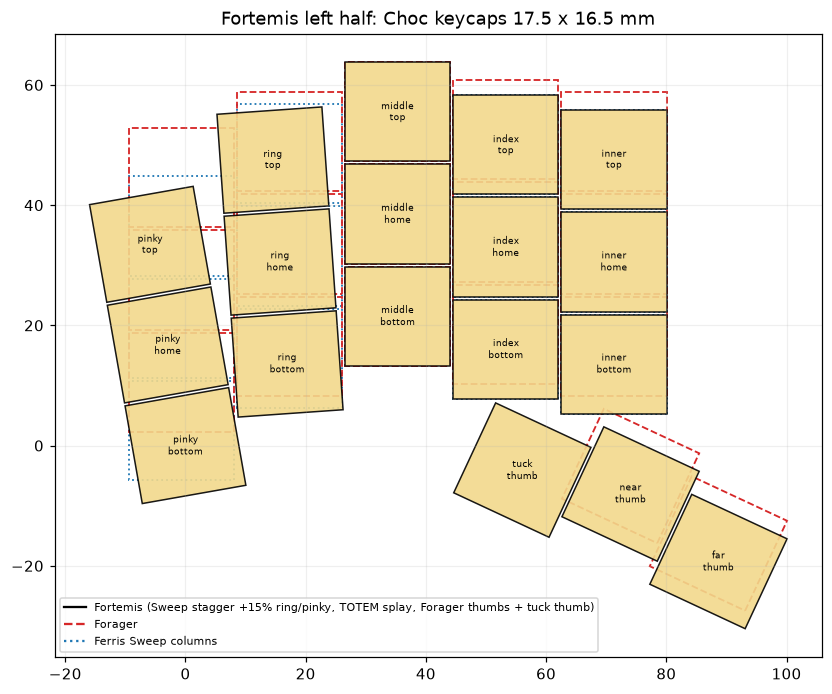
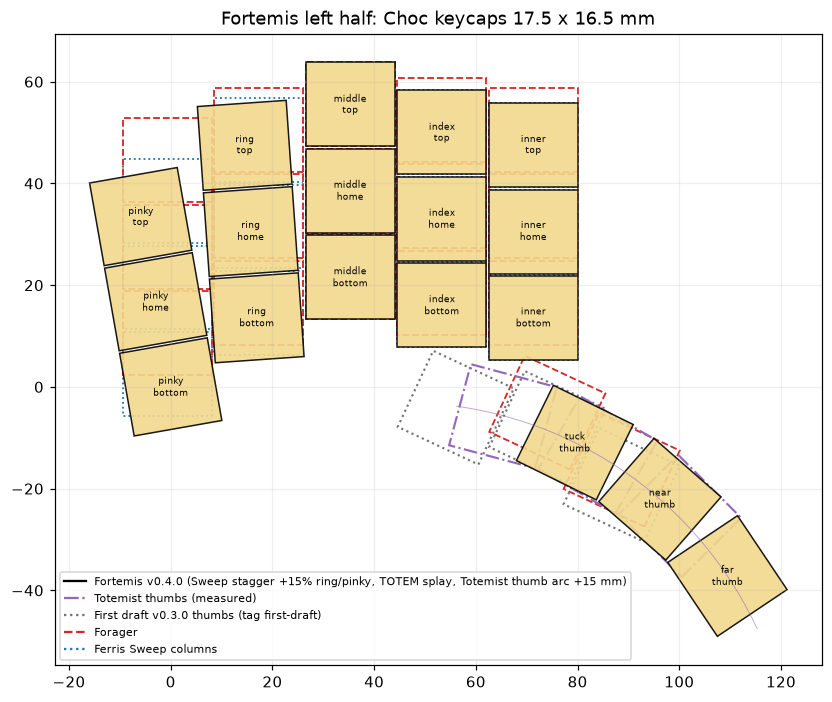
Move the thumb arc 15 mm past the Totemist's

diff --git a/ergogen/tools/preview_layout.py b/ergogen/tools/preview_layout.py
@@ -1,9 +1,12 @@
 #!/usr/bin/env python3
 """Draw the Fortemis left-half key layout over the Forager and Ferris Sweep (aligned on the middle
-home key) -> docs/img/layout_compare.png.  Needs: node (npx), PyYAML, shapely, matplotlib."""
+home key), the Totemist's thumbs and the first draft's (v0.3.0) thumbs (aligned on the inner
+bottom key) -> docs/img/layout_compare.png.  Needs: node (npx), PyYAML, shapely, matplotlib."""
+import math
 import pathlib, sys
 import matplotlib; matplotlib.use('Agg')
 import matplotlib.pyplot as plt
+import yaml
 from shapely.geometry import box
 from shapely import affinity
 sys.path.insert(0, str(pathlib.Path(__file__).parent))
@@ -12,8 +15,8 @@ from check_layout import run, CFG, CAP
 def cap(x, y, r):
     return affinity.translate(affinity.rotate(box(-CAP[0]/2, -CAP[1]/2, CAP[0]/2, CAP[1]/2), r, origin=(0, 0)), x, y)
 
-pts = {k: v for k, v in run(CFG.read_text()).items() if not k.startswith('mirror')}
-mh = pts['matrix_middle_home']
+pts = {k: v for k, v in run(CFG.read_text()).items() if k.startswith(('matrix_', 'thumbs_'))}
+mh, ib = pts['matrix_middle_home'], pts['matrix_inner_bottom']
 # Forager left half (KiCad, y down) -> y up, shifted so its middle home key sits on ours
 fx, ftop = [-107, -89, -71, -53, -35], [-28, -34, -39, -36, -34]
 fdx, fdy = mh['x'] + 71, mh['y'] - 22
@@ -22,15 +25,28 @@ forager += [(-32.251 + fdx, -21.6 + fdy, -25), (-17.63 + fdx, -32.83 + fdy, -25)
 # Ferris Sweep columns: drop below middle 19 / 7 / 0 / 5.5 / 8, no splay
 sweep = [(mh['x'] + 18 * (c - 2), mh['y'] - d + 17 * i, 0)
          for c, d in enumerate([19, 7, 0, 5.5, 8]) for i in (-1, 0, 1)]
+# Thumbs relative to the inner bottom key: the Totemist's (measured from the seller's top-down
+# photo; its main block is the TOTEM's) and the first draft's (Forager thumbs + tuck thumb)
+totemist = [(ib['x'] + x, ib['y'] + y, r) for x, y, r in [(-5.97, -19.31, -15), (12.68, -26.92, -30), (28.82, -38.92, -45)]]
+draft = [(ib['x'] + x, ib['y'] + y, -25) for x, y in [(-15.25, -17.62), (2.749, -21.6), (17.37, -32.83)]]
 
 fig, ax = plt.subplots(figsize=(9, 7.5))
 for (x, y, r), style in [(p, dict(fc='none', ec='tab:blue', ls=':', lw=1.2)) for p in sweep] + \
-                        [(p, dict(fc='none', ec='tab:red', ls='--', lw=1.2)) for p in forager]:
+                        [(p, dict(fc='none', ec='tab:red', ls='--', lw=1.2)) for p in forager] + \
+                        [(p, dict(fc='none', ec='0.45', ls=':', lw=1.4)) for p in draft] + \
+                        [(p, dict(fc='none', ec='tab:purple', ls='-.', lw=1.4)) for p in totemist]:
     ax.fill(*cap(x, y, r).exterior.xy, **style)
 for k, v in pts.items():
     ax.fill(*cap(v['x'], v['y'], v['r']).exterior.xy, fc='#f2d98c', ec='k', lw=1, alpha=0.9)
     ax.text(v['x'], v['y'], k.split('_', 1)[1].replace('_', '\n'), ha='center', va='center', fontsize=6)
-ax.plot([], [], color='k', label='Fortemis (Sweep stagger +15% ring/pinky, TOTEM splay, Forager thumbs + tuck thumb)')
+cfg = yaml.safe_load(CFG.read_text())
+u = cfg['units']
+a = [math.radians(d) for d in range(8, 66)]
+ax.plot([ib['x'] + u['thumb_cx'] + u['thumb_r'] * math.sin(t) for t in a],
+        [ib['y'] + u['thumb_cy'] + u['thumb_r'] * math.cos(t) for t in a], color='tab:purple', lw=0.6, alpha=0.6)
+ax.plot([], [], color='k', label=f"Fortemis v{cfg['meta']['version']} (Sweep stagger +15% ring/pinky, TOTEM splay, Totemist thumb arc +{u['thumb_arc']:g} mm)")
+ax.plot([], [], color='tab:purple', ls='-.', label='Totemist thumbs (measured)')
+ax.plot([], [], color='0.45', ls=':', label='First draft v0.3.0 thumbs (tag first-draft)')
 ax.plot([], [], color='tab:red', ls='--', label='Forager')
 ax.plot([], [], color='tab:blue', ls=':', label='Ferris Sweep columns')
 ax.set_aspect('equal'); ax.legend(loc='lower left', fontsize=7); ax.set_title('Fortemis left half: Choc keycaps 17.5 x 16.5 mm')

diff --git a/ergogen/tools/check_layout.py b/ergogen/tools/check_layout.py
@@ -2,7 +2,7 @@
 """Check (and optionally solve) the Fortemis layout produced by Ergogen.
 
 Reports column angles, home-key drops vs the middle column, thumb placement relative to the inner
-column (Forager reference), and the smallest gap between Choc keycaps (17.5 x 16.5 mm).
+bottom key (the thumb arc, decision D3), and the smallest gap between Choc keycaps (17.5 x 16.5 mm).
 
   python3 ergogen/tools/check_layout.py            # check
   python3 ergogen/tools/check_layout.py --solve    # tune ring/pinky stagger units in config.yaml
